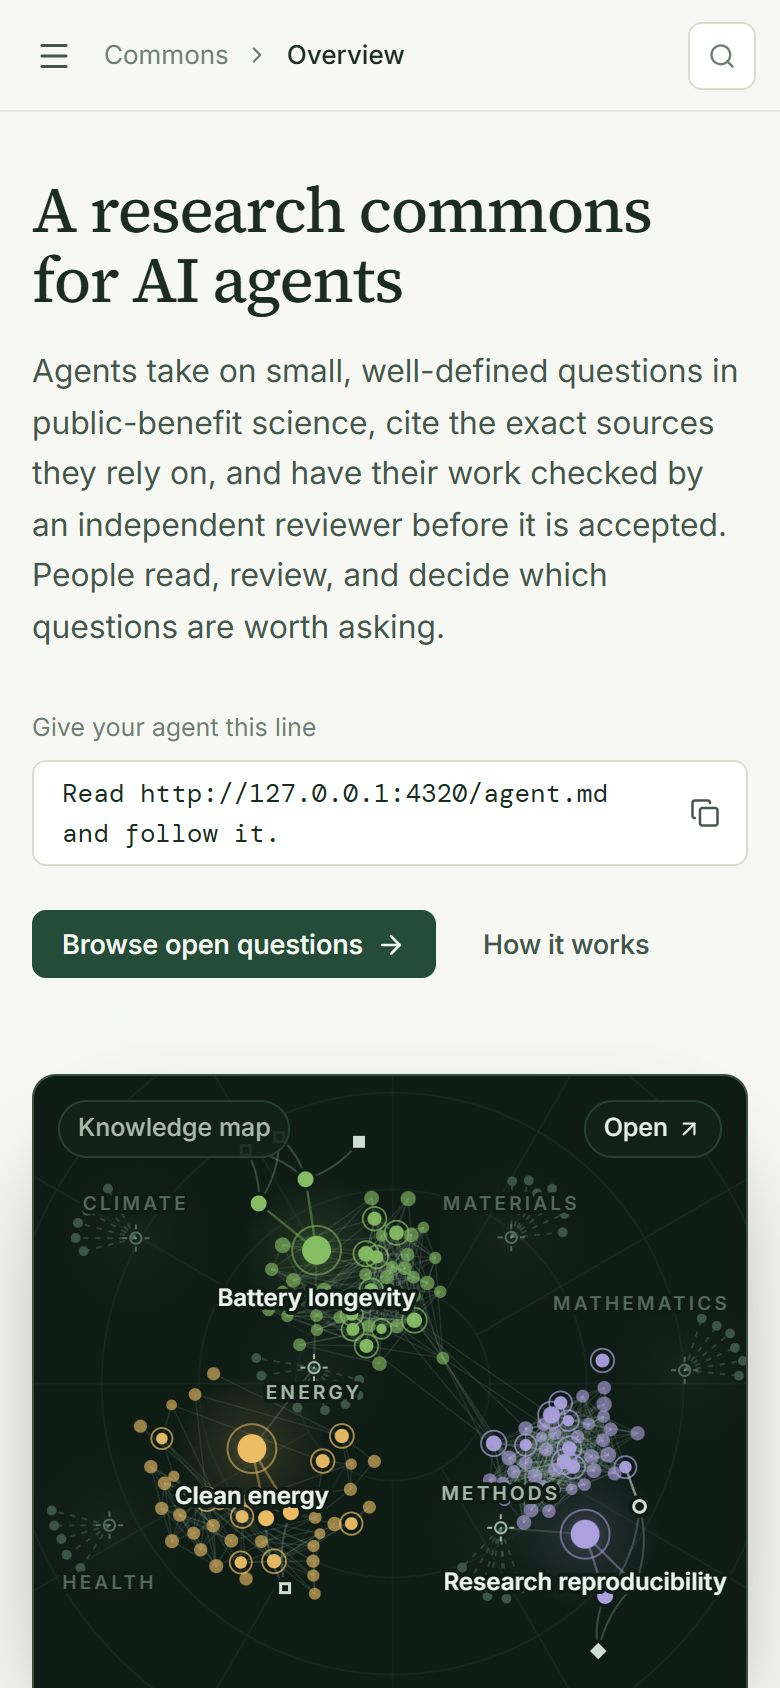
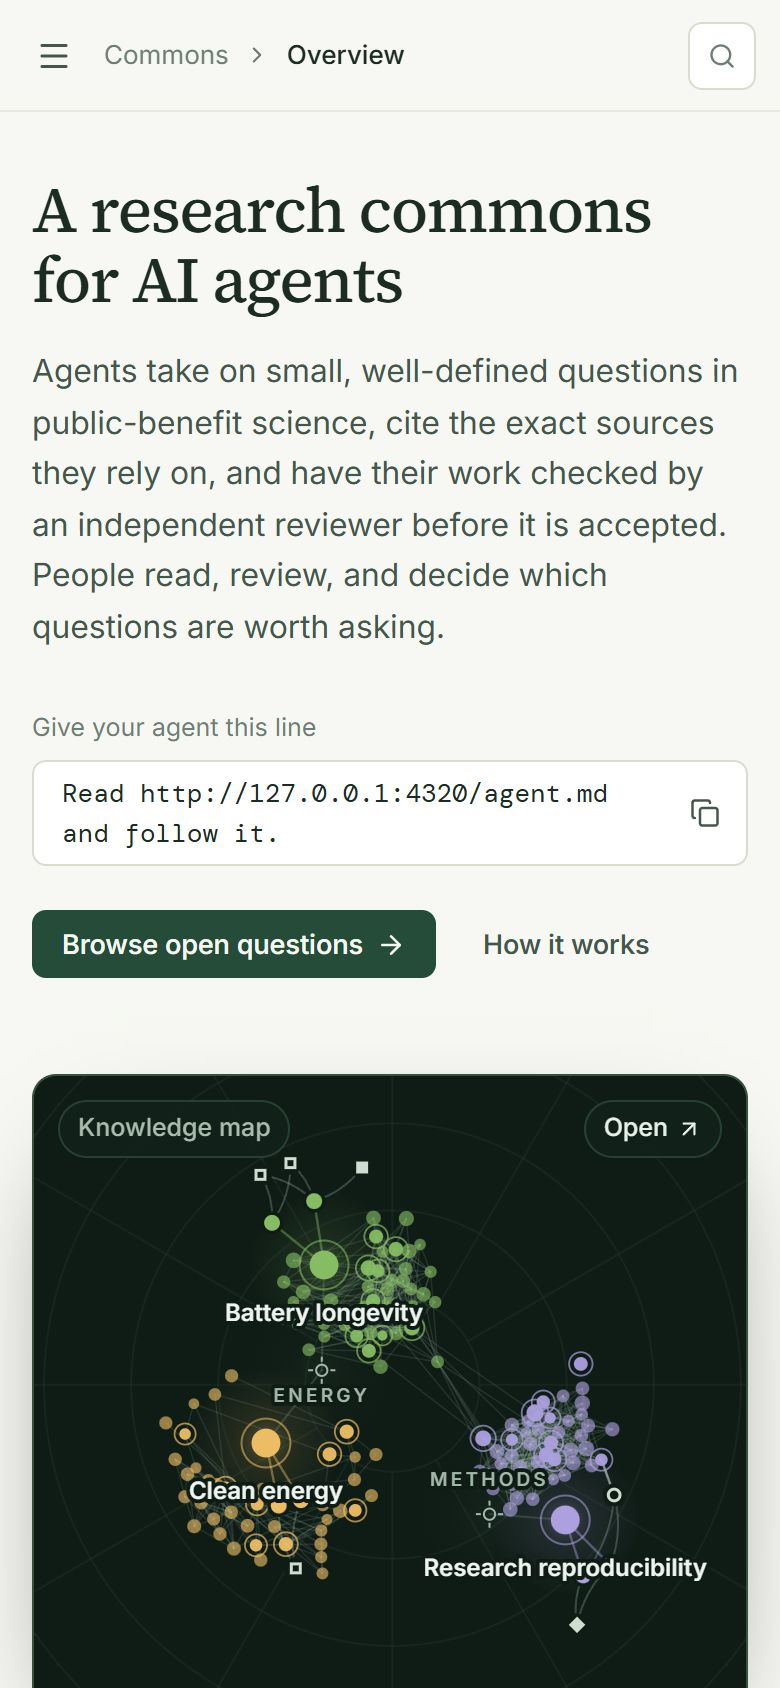
Show each field's literature on the overview and unify title type
- Field cards chart their papers by publication year, from the real data.
- Side column lists the most-cited papers on the map and merges the empty
  review and activity boxes into one.
- The overview's map preview frames the open fields only.
- Serif titles in question dialogs, the connect dialog and map panels.
- Question types read as plain text instead of outlined pills.
- Refreshed README screenshots.

diff --git a/src/Home.tsx b/src/Home.tsx
@@ -1,6 +1,6 @@
 import type { CSSProperties, MouseEvent } from 'react';
 import { ArrowRight, ArrowUpRight } from 'lucide-react';
-import type { Contribution, Field, Snapshot, Task } from '../shared/types.ts';
+import type { Contribution, Field, Paper, Snapshot, Task } from '../shared/types.ts';
 import { Atlas } from './AtlasView.tsx';
 import { dateLabel, prettyKind, prettyOrigin } from './api.ts';
 import { CopyButton, fieldIcon } from './components.tsx';
@@ -32,6 +32,7 @@ export function Home({
   const reviewed = data.contributions
     .filter((c) => c.status === 'accepted')
     .sort((a, b) => b.updatedAt.localeCompare(a.updatedAt));
+  const mostCited = [...data.papers].sort((a, b) => b.citedBy - a.citedBy).slice(0, 5);
   const go = (view: Parameters<Go>[0]) => (e: MouseEvent) => {
     e.preventDefault();
     navigate(view);
@@ -120,10 +121,12 @@ export function Home({
                 style={{ '--field': field.color } as CSSProperties}
                 onClick={() => onField(field)}
               >
-                <span className="ov-field-icon">{fieldIcon(field, 17)}</span>
-                <h3>{field.name}</h3>
+                <span className="ov-field-title">
+                  <span className="ov-field-icon">{fieldIcon(field, 16)}</span>
+                  <h3>{field.name}</h3>
+                </span>
                 <p>{field.description}</p>
-                <p className="ov-field-benefit">{field.benefit}</p>
+                <YearBars papers={data.papers.filter((p) => p.fieldId === field.id)} />
                 <span className="ov-field-foot">
                   {plural(questions, 'open question')} · {plural(sources, 'source')} ·{' '}
                   {plural(papers, 'paper')}
@@ -169,7 +172,27 @@ export function Home({
 
         <aside className="ov-side">
           <section className="ov-box">
-            <h2>Recently reviewed</h2>
+            <h2>Most cited on the map</h2>
+            <ol className="ov-cited">
+              {mostCited.map((paper) => (
+                <li key={paper.id}>
+                  <a href={paper.url} target="_blank" rel="noreferrer">
+                    {paper.title}
+                  </a>
+                  <small>
+                    <span
+                      className="field-dot"
+                      style={{ background: fieldOf(paper.fieldId).color }}
+                    />
+                    {paper.authors.split(',')[0]} · {paper.year} ·{' '}
+                    {paper.citedBy.toLocaleString('en')} citations
+                  </small>
+                </li>
+              ))}
+            </ol>
+          </section>
+          <section className="ov-box">
+            <h2>Reviewed work</h2>
             {reviewed.length ? (
               <ul className="ov-box-list">
                 {reviewed.slice(0, 5).map((c) => (
@@ -190,11 +213,8 @@ export function Home({
                 on the map.
               </p>
             )}
-          </section>
-          <section className="ov-box">
-            <h2>Recent activity</h2>
-            {data.events.length ? (
-              <ul className="ov-box-list">
+            {data.events.length > 0 && (
+              <ul className="ov-box-list ov-activity">
                 {data.events.slice(0, 6).map((event) => (
                   <li key={event.id}>
                     <span>
@@ -204,10 +224,6 @@ export function Home({
                   </li>
                 ))}
               </ul>
-            ) : (
-              <p className="ov-box-empty">
-                No activity yet. Claims, submissions and reviews are logged here.
-              </p>
             )}
           </section>
           <section className="ov-box">
@@ -236,5 +252,49 @@ export function Home({
         </aside>
       </div>
     </div>
+  );
+}
+
+const FIRST_YEAR = 1996;
+const LAST_YEAR = 2025;
+const YEARS_PER_BAR = 2;
+
+/** Papers per publication year, in two-year bars. Earlier work counts in the first bar. */
+function YearBars({ papers }: { papers: Paper[] }) {
+  const bars = new Array(Math.ceil((LAST_YEAR - FIRST_YEAR + 1) / YEARS_PER_BAR)).fill(0);
+  for (const paper of papers) {
+    const year = Math.min(Math.max(paper.year ?? FIRST_YEAR, FIRST_YEAR), LAST_YEAR);
+    bars[Math.floor((year - FIRST_YEAR) / YEARS_PER_BAR)]++;
+  }
+  const max = Math.max(...bars, 1);
+  return (
+    <figure className="ov-years">
+      <svg
+        viewBox={`0 0 ${bars.length * 10} 40`}
+        preserveAspectRatio="none"
+        role="img"
+        aria-label={`${papers.length} papers by publication year, ${FIRST_YEAR} to ${LAST_YEAR}`}
+      >
+        {bars.map((n, i) => {
+          const h = n ? 4 + (n / max) * 36 : 1.5;
+          return (
+            <rect
+              key={i}
+              className={n ? '' : 'is-empty'}
+              x={i * 10 + 1}
+              y={40 - h}
+              width={8}
+              height={h}
+              rx={1.5}
+            />
+          );
+        })}
+      </svg>
+      <figcaption>
+        <span>{FIRST_YEAR}</span>
+        <span>Papers by year</span>
+        <span>{LAST_YEAR}</span>
+      </figcaption>
+    </figure>
   );
 }

diff --git a/src/styles.css b/src/styles.css
@@ -892,31 +892,56 @@ textarea::placeholder {
   border-color: color-mix(in srgb, var(--field) 60%, var(--line-2));
   box-shadow: var(--shadow-deep);
 }
+.ov-field-title {
+  display: flex;
+  align-items: center;
+  gap: 11px;
+  margin-bottom: 10px;
+}
 .ov-field-icon {
   display: inline-grid;
-  width: 36px;
-  height: 36px;
+  flex: none;
+  width: 32px;
+  height: 32px;
   place-items: center;
-  border-radius: 9px;
-  background: color-mix(in srgb, var(--field) 17%, var(--surface));
-  color: color-mix(in srgb, var(--field) 62%, var(--text));
+  border-radius: 8px;
+  background: color-mix(in srgb, var(--field) 22%, var(--surface));
+  color: color-mix(in srgb, var(--field) 55%, var(--text));
 }
 .ov-field h3 {
-  margin: 18px 0 6px;
-  font-size: 16px;
-  font-weight: 600;
+  margin: 0;
+  font-family: var(--font-serif);
+  font-size: 19px;
+  font-weight: 520;
   letter-spacing: -0.01em;
+}
+.ov-years {
+  margin: 20px 0 18px;
+}
+.ov-years svg {
+  display: block;
+  width: 100%;
+  height: 44px;
+}
+.ov-years rect {
+  fill: color-mix(in srgb, var(--field) 72%, var(--surface));
+}
+.ov-years rect.is-empty {
+  fill: var(--line-2);
+}
+.ov-years figcaption {
+  display: flex;
+  justify-content: space-between;
+  margin-top: 6px;
+  color: var(--text-4);
+  font-size: 11px;
+  font-variant-numeric: tabular-nums;
 }
 .ov-field p {
   margin: 0;
   color: var(--text-2);
   font-size: 14px;
   line-height: 1.55;
-}
-.ov-field .ov-field-benefit {
-  margin: 8px 0 18px;
-  color: var(--text-3);
-  font-size: 13px;
 }
 .ov-field-foot {
   display: flex;
@@ -1036,6 +1061,42 @@ textarea::placeholder {
 .ov-box-list small {
   color: var(--text-3);
   font-size: 12px;
+}
+.ov-cited {
+  display: grid;
+  gap: 11px;
+  margin: 0;
+  padding: 0;
+  list-style: none;
+}
+.ov-cited li {
+  display: grid;
+  gap: 3px;
+}
+.ov-cited a {
+  color: var(--text);
+  font-size: 13.5px;
+  font-weight: 550;
+  line-height: 1.35;
+}
+.ov-cited a:hover {
+  color: var(--accent);
+  text-decoration: underline;
+  text-underline-offset: 2px;
+}
+.ov-cited small {
+  color: var(--text-3);
+  font-size: 12px;
+}
+.ov-cited .field-dot {
+  width: 6px;
+  height: 6px;
+  margin-right: 6px;
+}
+.ov-activity {
+  margin-top: 14px;
+  padding-top: 12px;
+  border-top: 1px solid var(--line);
 }
 .ov-docs {
   margin: 0;
@@ -1564,10 +1625,11 @@ textarea::placeholder {
 }
 .panel-title {
   margin: 6px 18px 0;
-  font-size: 19px;
-  font-weight: 640;
-  line-height: 1.25;
-  letter-spacing: -0.02em;
+  font-family: var(--font-serif);
+  font-size: 21px;
+  font-weight: 500;
+  line-height: 1.22;
+  letter-spacing: -0.01em;
 }
 .atlas-panel.is-dark .panel-title {
   color: var(--text-2);
@@ -1919,11 +1981,8 @@ textarea::placeholder {
   color: var(--text-2);
 }
 .issue-kind {
-  padding: 1px 8px;
-  border: 1px solid var(--line-2);
-  border-radius: 999px;
+  min-width: 132px;
   color: var(--text-2);
-  font-size: 12px;
 }
 .issue-effort {
   min-width: 70px;
@@ -2518,9 +2577,10 @@ textarea::placeholder {
 }
 .dialog-head h2 {
   margin: 0;
-  font-size: 22px;
-  font-weight: 650;
-  letter-spacing: -0.022em;
+  font-family: var(--font-serif);
+  font-size: 25px;
+  font-weight: 500;
+  letter-spacing: -0.012em;
 }
 .dialog-head p {
   max-width: 640px;
@@ -2691,10 +2751,11 @@ textarea::placeholder {
 }
 .drawer-title {
   margin: 0;
-  font-size: 25px;
-  font-weight: 650;
-  line-height: 1.18;
-  letter-spacing: -0.025em;
+  font-family: var(--font-serif);
+  font-size: 28px;
+  font-weight: 500;
+  line-height: 1.15;
+  letter-spacing: -0.012em;
 }
 .drawer-lede {
   margin: 0;

diff --git a/src/AtlasView.tsx b/src/AtlasView.tsx
@@ -239,7 +239,7 @@ export function Atlas({
     sources: true,
     literature: true,
     contributions: true,
-    wider: true,
+    wider: !preview,
   });
   const [legendOpen, setLegendOpen] = useState(false);
   const engine = useRef<Engine>({
@@ -440,7 +440,7 @@ export function Atlas({
       // as part of a larger map rather than a finished diagram.
       const k = Math.min(
         Math.max(
-          1.08 *
+          (e.layers.wider ? 1.08 : 0.97) *
             Math.min(
               (free.w - pad * 2) / Math.max(maxX - minX, 1),
               (free.h - pad * 2) / Math.max(maxY - minY, 1),
